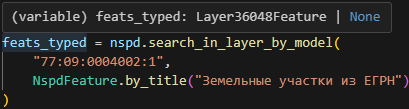
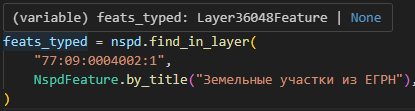
chore: update docs

Changed region(s): [[0.0, 0.0, 0.9682, 0.7982], [0.0587, 0.6606, 1.0, 0.8257], [0.0, 0.8257, 0.0293, 0.9908]]

diff --git a/tests/_async/test_http_handler.py b/tests/_async/test_http_handler.py
@@ -9,7 +9,7 @@ from pynspd import AsyncNspd
 async def test_429_error(httpx_mock: HTTPXMock, async_api: AsyncNspd):
     httpx_mock.add_response(status_code=429)
     httpx_mock.add_response(status_code=200)
-    r = await async_api.save_request("get", "/api")
+    r = await async_api.safe_request("get", "/api")
     assert r.status_code == 200
     assert len(httpx_mock.get_requests()) == 2
 
@@ -18,7 +18,7 @@ async def test_429_error(httpx_mock: HTTPXMock, async_api: AsyncNspd):
 async def test_400_error(httpx_mock: HTTPXMock, async_api: AsyncNspd):
     httpx_mock.add_response(status_code=400)
     with pytest.raises(httpx.HTTPStatusError) as e:
-        await async_api.save_request("get", "/api")
+        await async_api.safe_request("get", "/api")
     assert e.value.response.status_code == 400
 
 
@@ -28,7 +28,7 @@ async def test_500_error(httpx_mock: HTTPXMock, async_api: AsyncNspd):
     httpx_mock.add_response(status_code=500)
     httpx_mock.add_response(status_code=500)
     with pytest.raises(httpx.HTTPStatusError) as e:
-        await async_api.save_request("get", "/api")
+        await async_api.safe_request("get", "/api")
     assert e.value.response.status_code == 500
     assert len(httpx_mock.get_requests()) > async_api.retries
 
@@ -37,5 +37,5 @@ async def test_500_error(httpx_mock: HTTPXMock, async_api: AsyncNspd):
 async def test_remote_disconnect_error(httpx_mock: HTTPXMock, async_api: AsyncNspd):
     httpx_mock.add_exception(httpx.RemoteProtocolError("Unexpected disconnect"))
     httpx_mock.add_response(status_code=200)
-    r = await async_api.save_request("get", "/api")
+    r = await async_api.safe_request("get", "/api")
     assert r.status_code == 200

diff --git a/tests/_sync/test_http_handler.py b/tests/_sync/test_http_handler.py
@@ -8,7 +8,7 @@ from pynspd import Nspd
 def test_429_error(httpx_mock: HTTPXMock, api: Nspd):
     httpx_mock.add_response(status_code=429)
     httpx_mock.add_response(status_code=200)
-    r = api.save_request("get", "/api")
+    r = api.safe_request("get", "/api")
     assert r.status_code == 200
     assert len(httpx_mock.get_requests()) == 2
 
@@ -16,7 +16,7 @@ def test_429_error(httpx_mock: HTTPXMock, api: Nspd):
 def test_400_error(httpx_mock: HTTPXMock, api: Nspd):
     httpx_mock.add_response(status_code=400)
     with pytest.raises(httpx.HTTPStatusError) as e:
-        api.save_request("get", "/api")
+        api.safe_request("get", "/api")
     assert e.value.response.status_code == 400
 
 
@@ -25,7 +25,7 @@ def test_500_error(httpx_mock: HTTPXMock, api: Nspd):
     httpx_mock.add_response(status_code=500)
     httpx_mock.add_response(status_code=500)
     with pytest.raises(httpx.HTTPStatusError) as e:
-        api.save_request("get", "/api")
+        api.safe_request("get", "/api")
     assert e.value.response.status_code == 500
     assert len(httpx_mock.get_requests()) > api.retries
 
@@ -33,5 +33,5 @@ def test_500_error(httpx_mock: HTTPXMock, api: Nspd):
 def test_remote_disconnect_error(httpx_mock: HTTPXMock, api: Nspd):
     httpx_mock.add_exception(httpx.RemoteProtocolError("Unexpected disconnect"))
     httpx_mock.add_response(status_code=200)
-    r = api.save_request("get", "/api")
+    r = api.safe_request("get", "/api")
     assert r.status_code == 200

diff --git a/src/pynspd/__init__.py b/src/pynspd/__init__.py
@@ -1,6 +1,6 @@
 from pynspd._async.api import AsyncNspd
 from pynspd._sync.api import Nspd
-from pynspd.errors import TooBigContour, UnknownLayer
+from pynspd.errors import AmbiguousSearchError, TooBigContour, UnknownLayer
 from pynspd.schemas import NspdFeature
 from pynspd.types.enums import ThemeId
 
@@ -11,5 +11,6 @@ __all__ = [
     "ThemeId",
     "UnknownLayer",
     "TooBigContour",
+    "AmbiguousSearchError",
 ]
 __version__ = "0.6.1"

diff --git a/src/pynspd/_async/api.py b/src/pynspd/_async/api.py
@@ -152,7 +152,7 @@ class AsyncNspd(BaseNspdClient):
         return r
 
     @retry_on_http_error
-    async def save_request(
+    async def safe_request(
         self,
         method: str,
         url: str,

diff --git a/src/pynspd/_sync/api.py b/src/pynspd/_sync/api.py
@@ -152,7 +152,7 @@ class Nspd(BaseNspdClient):
         return r
 
     @retry_on_http_error
-    def save_request(
+    def safe_request(
         self,
         method: str,
         url: str,

diff --git a/docs/userguide.md b/docs/userguide.md
@@ -33,23 +33,15 @@ nspd.close()
 ```python
 from pynspd import ThemeId
 
-feat = nspd.search_in_theme("77:05:0001005:19", ThemeId.REAL_ESTATE_OBJECTS)
-print(feat.properties.options.land_record_type)
+features = nspd.search("77:05:0001005:19", ThemeId.REAL_ESTATE_OBJECTS)
+print(features[0].properties.options.land_record_type)
 #> Земельный участок
 ```
 
 #### По слоям
 
-Для более точного поиска мы можем указать id конкретных слоев для поиска, подсмотрев их в запросах НСПД:
-
 ```python
-feat = nspd.search_in_layer("77:05:0001005:19", 36048) # id земельных участков
-```
-
-Разумеется, не очень удобно каждый раз подглядывать в запросы НСПД. Здесь нам приходит на помощь собранная с НСПД информация о слоях:
-
-```python
-feat = nspd.search_in_layer_by_model(
+features = nspd.search_in_layer(
     "77:05:0001005:19", 
     NspdFeature.by_title("Земельные участки из ЕГРН")
 )
@@ -59,49 +51,62 @@ feat = nspd.search_in_layer_by_model(
 
 ![Layer titles example](assets/layer_assist.png)
 
-Метод `.search_in_layer_by_model(...)` удобен не только тем, что нам не нужно прописывать id слоя, 
-но и тем что он может привести ответ НСПД к статическому типу: 
+Кроме того этот метод приводит ответ от НСПД к статическому типу и мы можем проверить доступные поля: 
 
 ![Typed answer example](assets/typed_answer.png)
 
-Подробнее о типизации ответов читайте в статье ["Типизация ответов"](advanced/typing.md)
+Подробнее о типизации ответов читайте в [этой статье](advanced/typing.md).
 
+
+#### Точное совпадение
+
+Довольно часто требуется найти информацию по конкретному кадастровому номеру. В то же время методы `.search(...)`
+и `.search_in_layer(...)` выдают массив (или `None`, если ничего не найдено), что порождает лишний код
+по фильтрации массива и извлечения из него.
+
+Чтобы сократить вышеописанные кейсы, вы можете использовать методы `.find(...)` и `.find_in_layer(...)`, 
+которые всегда возвращают либо один объект, либо `None`:
+
+```python
+feat = nspd.find("77:05:0001005:19")
+print(feat.properties.options.land_record_type)
+#> Земельный участок
+```
+
+??? info "Немного подробнее про фильтрацию в `.find`"
+    `.find` не просто проверяет, что в массиве один элемент и возвращает его.
+    Он проверяет, что поисковой запрос действительно присутствует в ответе и 
+    НСПД не галлюцинирует (например, запрос `77:1:3033:1031` возвращает данные по к/н `02:54:000000:81`),
+    а так же напрямую относится к объекту (например, исключает помещения, включенные в ответ по зданию)
 
 ### В точке
-
-Аналогично поиску по запросу, мы можем либо указать id слоя, либо сразу передать модель слоя:
 
 ```python
 from shapely import Point
 
-# по id слоя
-feats = nspd.search_at_point(Point(37.546440653, 55.787139958), 36048)
+layer_def = NspdFeature.by_title("Земельные участки из ЕГРН")
+feats = nspd.search_at_point(Point(37.546440653, 55.787139958), layer_def)
 
-# по модели слоя
-feats = nspd.search_at_point_by_model(    
-    Point(37.546440653, 55.787139958), 
-    NspdFeature.by_title("Земельные участки из ЕГРН"),
-)
 print(feats[0].properties.options.cad_num)
 #> "77:09:0005008:11446"
 ```
 
+!!! tip
+    Если вы не хотите использовать `shapely.Point`, вы можете использовать метод `.search_at_coords(lat, lng, layer_def)`.
+    Обратите внимание, что в географических координатах сначала идет широта, т.е. `lat`=`y`
+
+Аналогично поиску по слою, ответ будет приведен к статическому типу.
+
 ### В контуре
 
-Аналогично поиску по запросу, мы можем либо указать id категории свойств, либо сразу передать модель слоя:
-
 ```python
-from shapely import wkt
+from shapely import from_wkt
 
-contour = wkt.loads(
+contour = from_wkt(
     "Polygon ((37.62381 55.75345, 37.62577 55.75390, 37.62448 55.75278, 37.62381 55.75345))"
 )
 
-# по id категории
-feats = nspd.search_in_contour(contour, 36368)
-
-# по модели слоя
-feats = nspd.search_in_contour_by_model(
+feats = nspd.search_in_contour(
     contour,
     NspdFeature.by_title("Земельные участки из ЕГРН"),
 )
@@ -110,12 +115,30 @@ print(cns)
 #> ["77:01:0001011:8", "77:01:0001011:14", "77:01:0001011:16"]
 ```
 
+Аналогично поиску по слою, ответ будет приведен к статическому типу.
+
+Данный метод передает ответ НСПД "как есть". Это значит, что если площадь поиска слишком большая, 
+будет вызвана ошибка `TooBigContour`. Однако, вы можете воспользоваться генератором `.search_in_contour_iter(...)`,
+который обходит известные ограничения:
+
+```python
+for i in nspd.search_in_contour_iter(
+    contour,
+    NspdFeature.by_title("Земельные участки из ЕГРН"),
+    only_intersects=True, # по умолчанию метод ищет все объекты 
+                          # в bounding box контура для экономии ресурсов
+):
+    print(i.properties.options.cad_num)
+```
+
 ## Работа с геометрией
 
 Исходный формат ответов по объекту от НСПД - [GeoJSON](https://ru.wikipedia.org/wiki/GeoJSON). 
 
 !!! info "Системы коодинат"
-    Несмотря на то, что НСПД может в разных ситуациях ответить в разных системах координат, `pynspd` ВСЕГДА приводит систему коодинат геометрии в EPSG:4326
+    Несмотря на то, что НСПД может в разных ситуациях ответить в разных системах координат, `pynspd` ВСЕГДА приводит систему коодинат геометрии в EPSG:4326.
+
+    По этой же причине все методы, работающие с геометрией, ожидают, что она будет в СК EPSG:4326.
 
 Однако, если нам необходимо производить геометрические операции, он не совсем подходит. Поэтому `pynspd` предоставляет возможность конвертировать геометрию в формат [shapely](https://shapely.readthedocs.io/en/2.0.4/manual.html):
 
@@ -123,7 +146,7 @@ print(cns)
 feat.geometry.to_shape()
 ```
 
-Или же сразу в мультигеометрию (что удобно для баз данных, вроде [PostGIS](https://postgis.net/)):
+Или же сразу в мультигеометрию (что может быть удобно для сохранения в базу данных, вроде [PostGIS](https://postgis.net/)):
 
 ```python
 feat.geometry.to_multi_shape()
@@ -138,7 +161,7 @@ feat.geometry.to_multi_shape()
 Свойства объекта лежат в свойстве `.properties`:
 
 ```python
-feat = nspd.search_in_layer_by_model(
+feat = nspd.search_in_layer(
     '63:01:0810003:510', 
     NspdFeature.by_title("Земельные участки из ЕГРН")
 )
@@ -169,7 +192,7 @@ print(feat.properties.options.model_dump().keys())
 #>  ...]
 ```
 
-Так же вы можете сразу получить словарь с названиями из карточки НСПД:
+Также вы можете сразу получить словарь с названиями из карточки НСПД:
 
 ```python
 print(feat.properties.cast().options.model_dump_human_readable().keys())

diff --git a/docs/advanced/typing.md b/docs/advanced/typing.md
@@ -3,29 +3,22 @@
 
 В этой же статье мы покроем те области, которые связаны непосредственно с `pynspd`.
 
-!!! info "TL;DR"
-    Если вы пишете современное приложение с type hints на Python, 
-    пользуетесь инструментами вроде [mypy](https://github.com/python/mypy),
-    хотите быть уверенным в приходящих от НСПД данных - 
-    используете методы `nspd.<method_name>_by_model` или `NspdFeature.cast()`. 
-
 ## Приведение к типу в методах
 
-Напомним, что разные методы поиска в `pynspd` имеют две вариации - базовая и с использованием модели слоя (с суффиксом `_by_model`)
+Напомним, что текстовый поиск в `pynspd` имеют две вариации - по теме и по слою:
 
 ```python
 from pynspd import Nspd, NspdFeature
 
 nspd = Nspd()
 
-# Базовый вариант
-feat_plain = nspd.search_in_layer(
+# По теме
+feat_plain = nspd.find(
     "77:09:0004002:1", 
-    36048
 )
 
 # По модели слоя
-feats_typed = nspd.search_in_layer_by_model(
+feats_typed = nspd.find_in_layer(
     "77:09:0004002:1", 
     NspdFeature.by_title("Земельные участки из ЕГРН"),
 )
@@ -63,9 +56,8 @@ print(type(feats_typed))
 
 ## Приведение к типу постфактум
 
-Иногда у нас нет возможности получить типизированный объект. 
-
-Например, метод `nspd.search_in_theme(...)` всегда возвращает `NspdFeature`.
+Иногда у нас нет возможности знать заранее тип объекта, 
+поэтому мы используем метод `nspd.find(...)`, который всегда возвращает `NspdFeature`.
 
 При может быть потребность в преимуществах модели слоя - например, для экспорта свойств в человекочитаемый словарь, `.model_dump_human_readable()`.
 
@@ -75,7 +67,7 @@ print(type(feats_typed))
 - ничего не передавать и определить модель автоматически (*динамическое приведение*). 
 
 ```python
-raw_feat: NspdFeature = nspd.search_in_theme("77:09:0004002:1")
+raw_feat: NspdFeature = nspd.find("77:09:0004002:1")
 
 # Статическое приведение
 props_typed_cast = raw_feat.cast(

diff --git a/docs/README.md b/docs/README.md
@@ -16,16 +16,15 @@
 
 > ⚠ **Важно**
 >
-> - Это неофициальная библиотека
->
-> - НСПД часто меняет схемы объектов. Если у вас происходит ошибка валидации - попробуйте обновить библиотеку
+> Данная библиотека является неофициальным проектом и создана исключительно в образовательных целях
 
 ## Особенности
 - **Синхронное и асинхронное API**: полностью идентичные API позволяют одинаково удобно работать в разных проектах.
-- **Полная типизации на [Pydantic](https://github.com/pydantic/pydantic)**: валидация данных и автозаполнения в IDE.
-- **Встроенная поддержка [Shapely](https://github.com/shapely/shapely)**: удобная аналитика полученной геометрии.
-- **Кэширование из коробки**: сохранение данных в Redis, SQLite и других форматах.
+- **Полная типизации проекта**: автозаполнения в IDE, статический анализ и прочие удобства современного Python.
 - **Автогенерация типов**: данные о перечне слоев, их полях и их типах подтягиваются напрямую с НСПД.
+- **Валидации данных от [Pydantic](https://github.com/pydantic/pydantic)**: гарантия, что библиотека соответствует сайту.
+- **Поддержка работы с геометрией от [Shapely](https://github.com/shapely/shapely)**: удобная аналитика полученной геометрии.
+- **Кэширование из коробки от [Hishel](https://hishel.com)**: сохранение данных в Redis, SQLite и других форматах.
 
 ## Быстрый старт
 
@@ -41,7 +40,7 @@ pip install pynspd
 from pynspd import Nspd
 
 with Nspd() as nspd:
-    feat = nspd.search_in_theme("77:05:0001005:19")
+    feat = nspd.find("77:05:0001005:19")
 ```
 
 Доступен полный список аттрибутов (в том числе скрытых), а также сокращенный в человекочитаемом формате:

diff --git a/docs/advanced/sync_vs_async.md b/docs/advanced/sync_vs_async.md
@@ -30,7 +30,7 @@
     async def main():
         async with AsyncNspd() as nspd:
             q = input("Введите к/н: ")
-            feat = await nspd.search_in_theme(q)
+            feat = await nspd.find(q)
             if feat is None:
                 print("Ничего не найдено!")
                 return

diff --git a/docs/api/errors.md b/docs/api/errors.md
@@ -1,3 +1,5 @@
 ::: pynspd.UnknownLayer
 
 ::: pynspd.TooBigContour
+
+::: pynspd.AmbiguousSearchError
